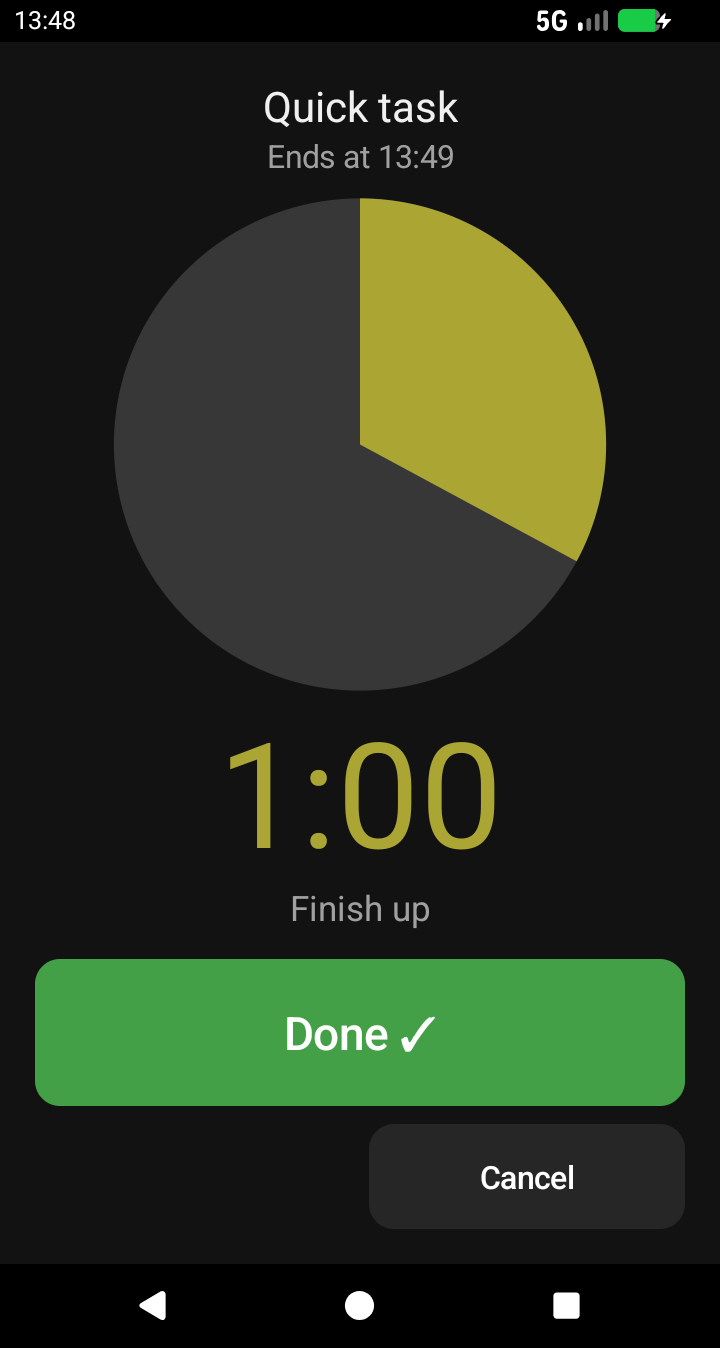
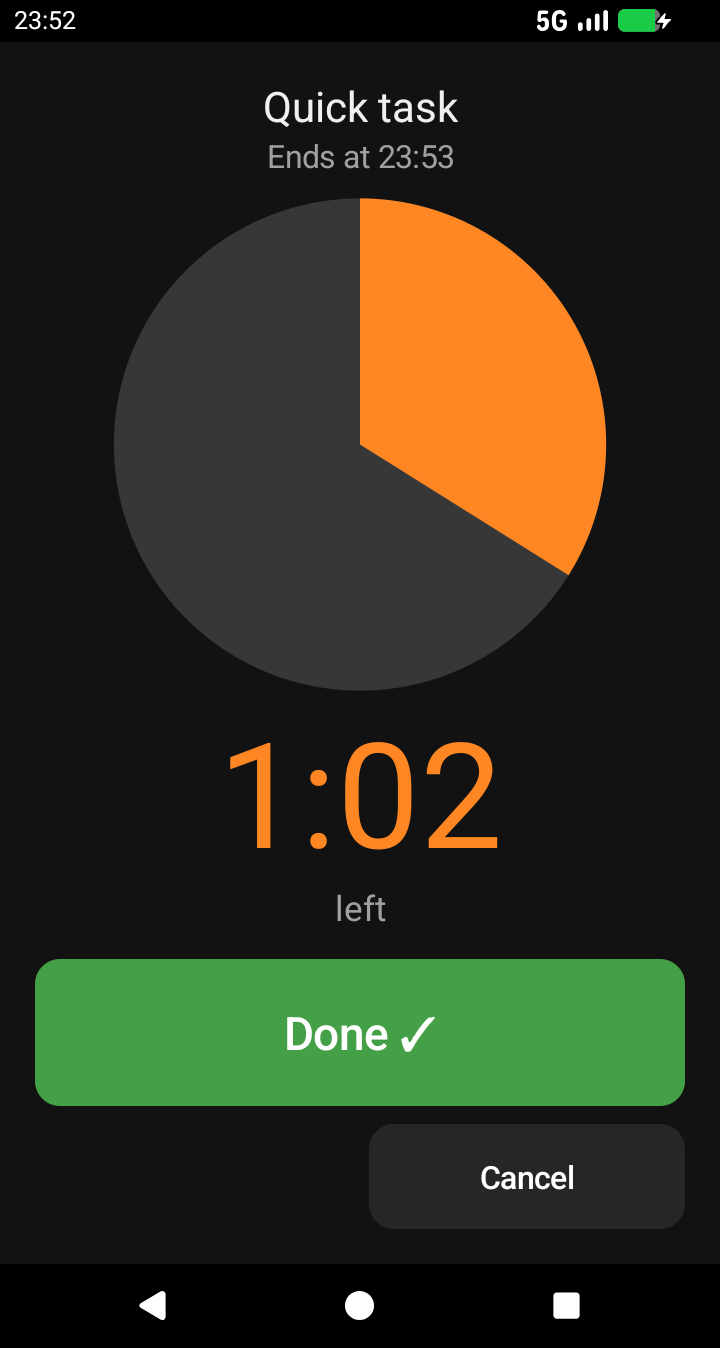
Landing page: current screenshots and colours

diff --git a/docs/index.html b/docs/index.html
@@ -50,7 +50,7 @@
   </div>
   <div class="hero-phones">
     <img class="phone" src="img/home.png" width="720" height="1348" alt="Home screen: How long do you have? with quick buttons for 5 to 30 minutes, Start, and presets">
-    <img class="phone" src="img/countdown.png" width="720" height="1348" alt="Countdown screen: shrinking amber wedge, 1:00 left, Finish up, and a Done button">
+    <img class="phone" src="img/countdown.png" width="720" height="1348" alt="Countdown screen: shrinking orange wedge, 1:02 left, and a Done button">
   </div>
 </section>
 
@@ -74,7 +74,7 @@
     <article class="card stack">
       <span class="step" style="color: var(--amber)">02 · GO</span>
       <h3>Let it talk you through it</h3>
-      <p class="muted">A full-screen wedge shrinks from green to amber to red, the screen stays on, and a voice tells you how much time is left, more often as the end gets closer.</p>
+      <p class="muted">A full-screen wedge shrinks and turns from yellow to orange to red, the screen stays on, and a voice tells you how much time is left, more often as the end gets closer.</p>
     </article>
     <article class="card stack">
       <span class="step" style="color: var(--green)">03 · DONE</span>
@@ -120,7 +120,7 @@
       </ul>
     </div>
     <div class="center">
-      <img class="phone" src="img/overtime.png" width="720" height="1348" loading="lazy" alt="Over-time screen: red ring, +0:48, Over time. Wrap it up!, with Done, Silence alarm and Cancel">
+      <img class="phone" src="img/overtime.png" width="720" height="1348" loading="lazy" alt="Over-time screen: red ring, +0:50, Over time. Wrap it up!, with Done, Silence alarm and Cancel">
     </div>
   </div>
 </section>
